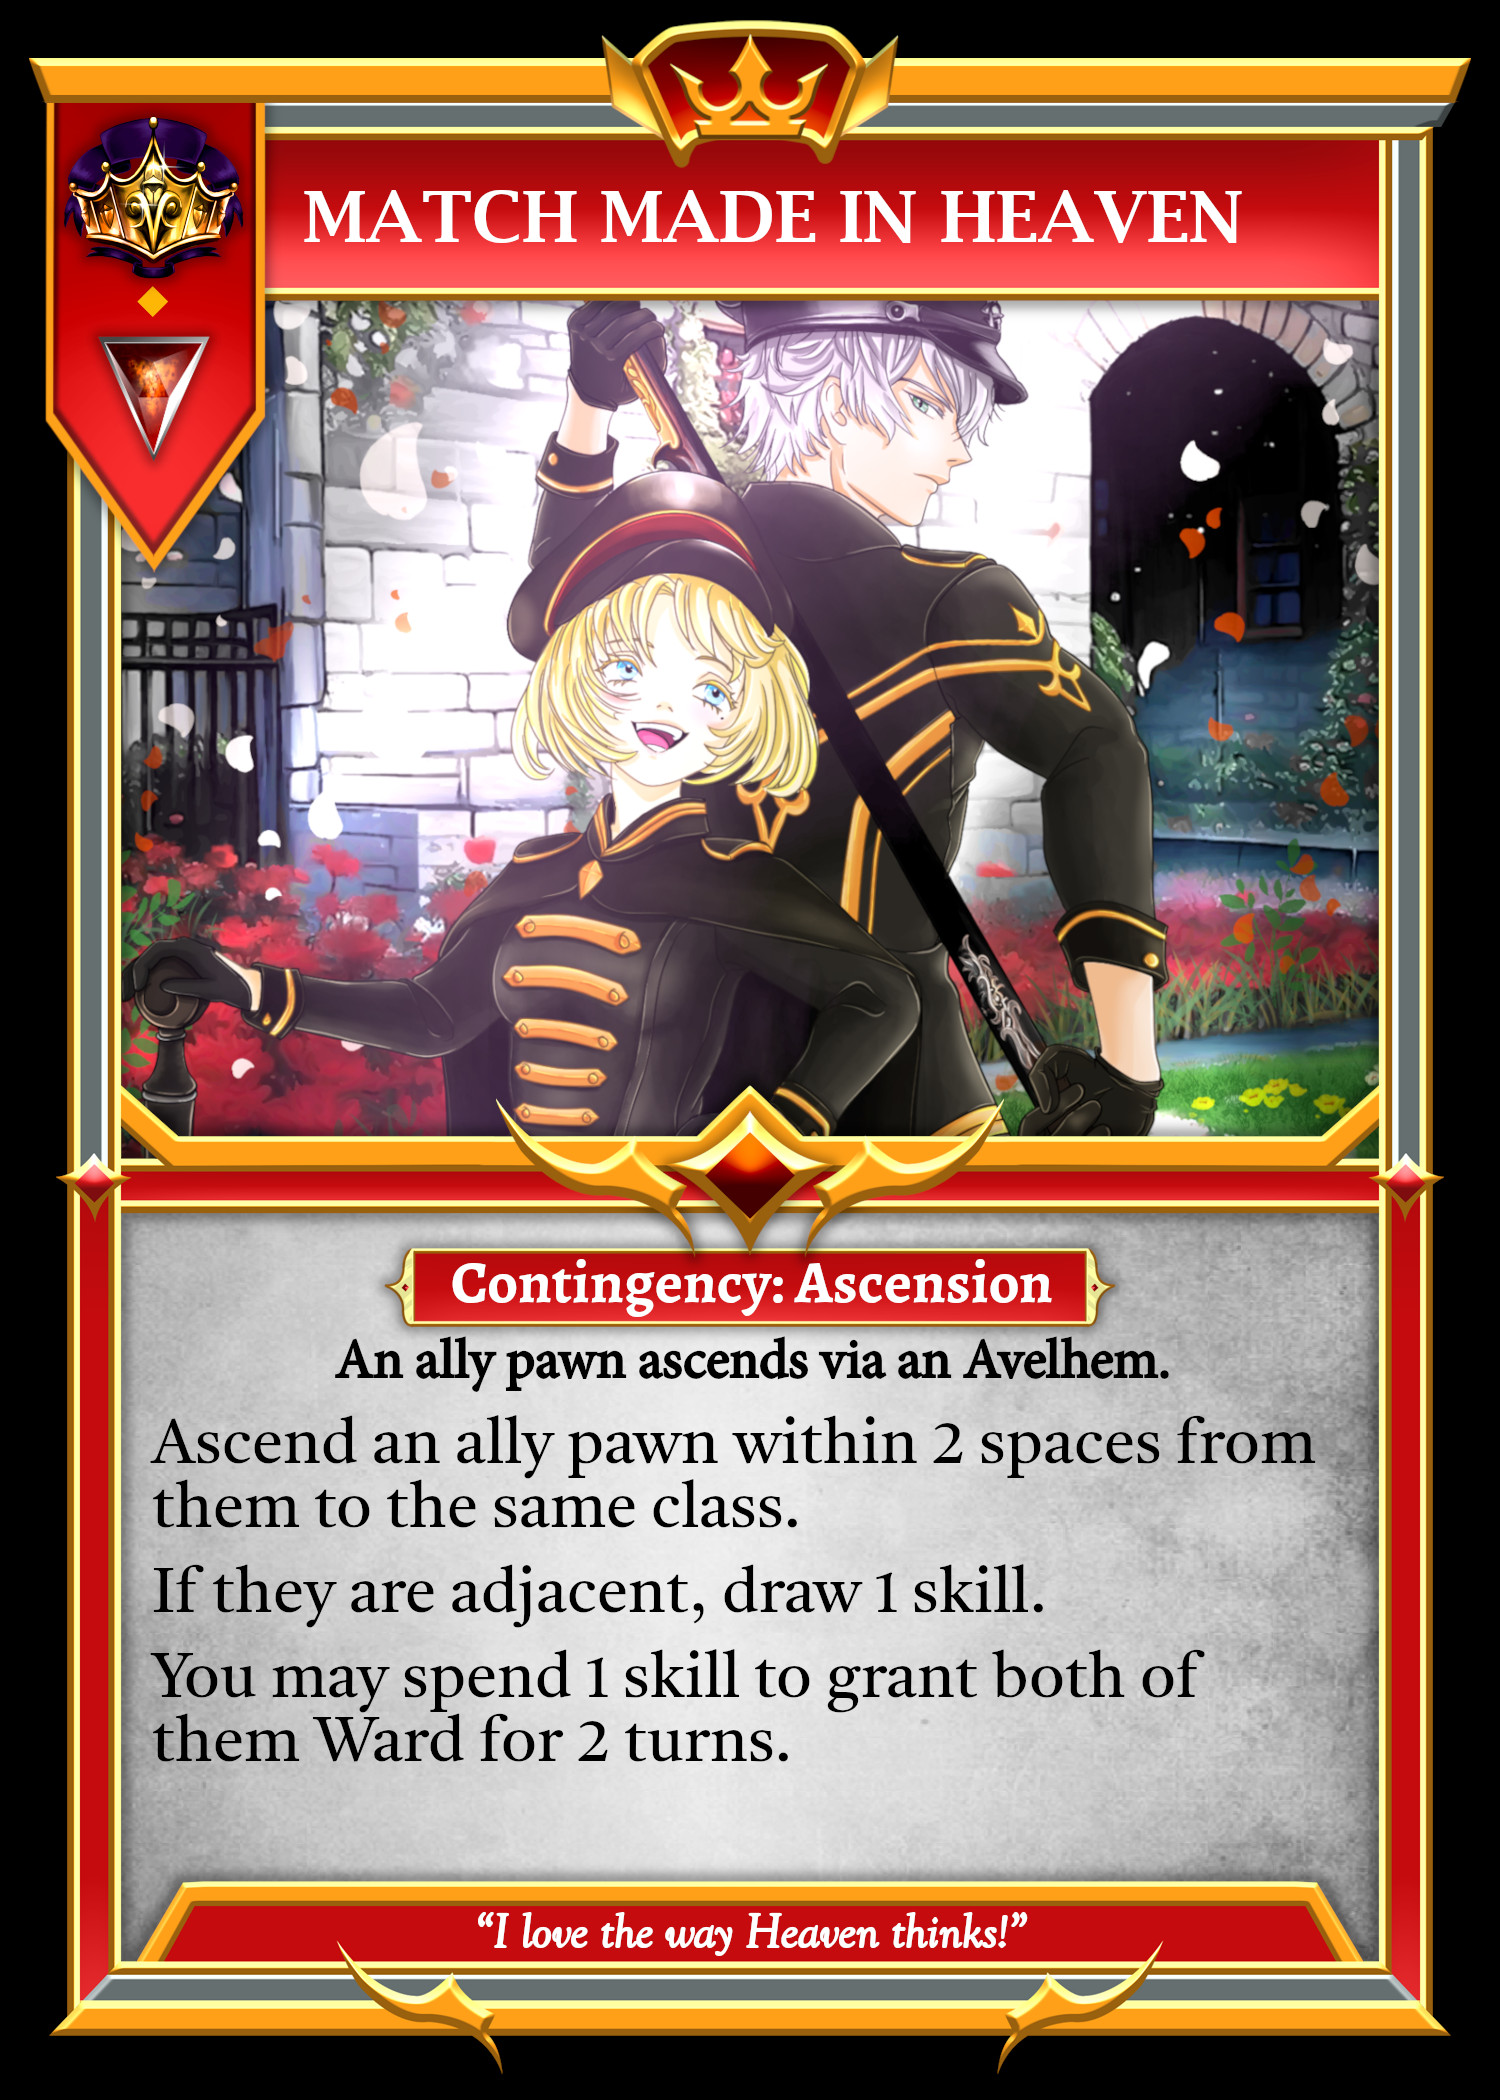
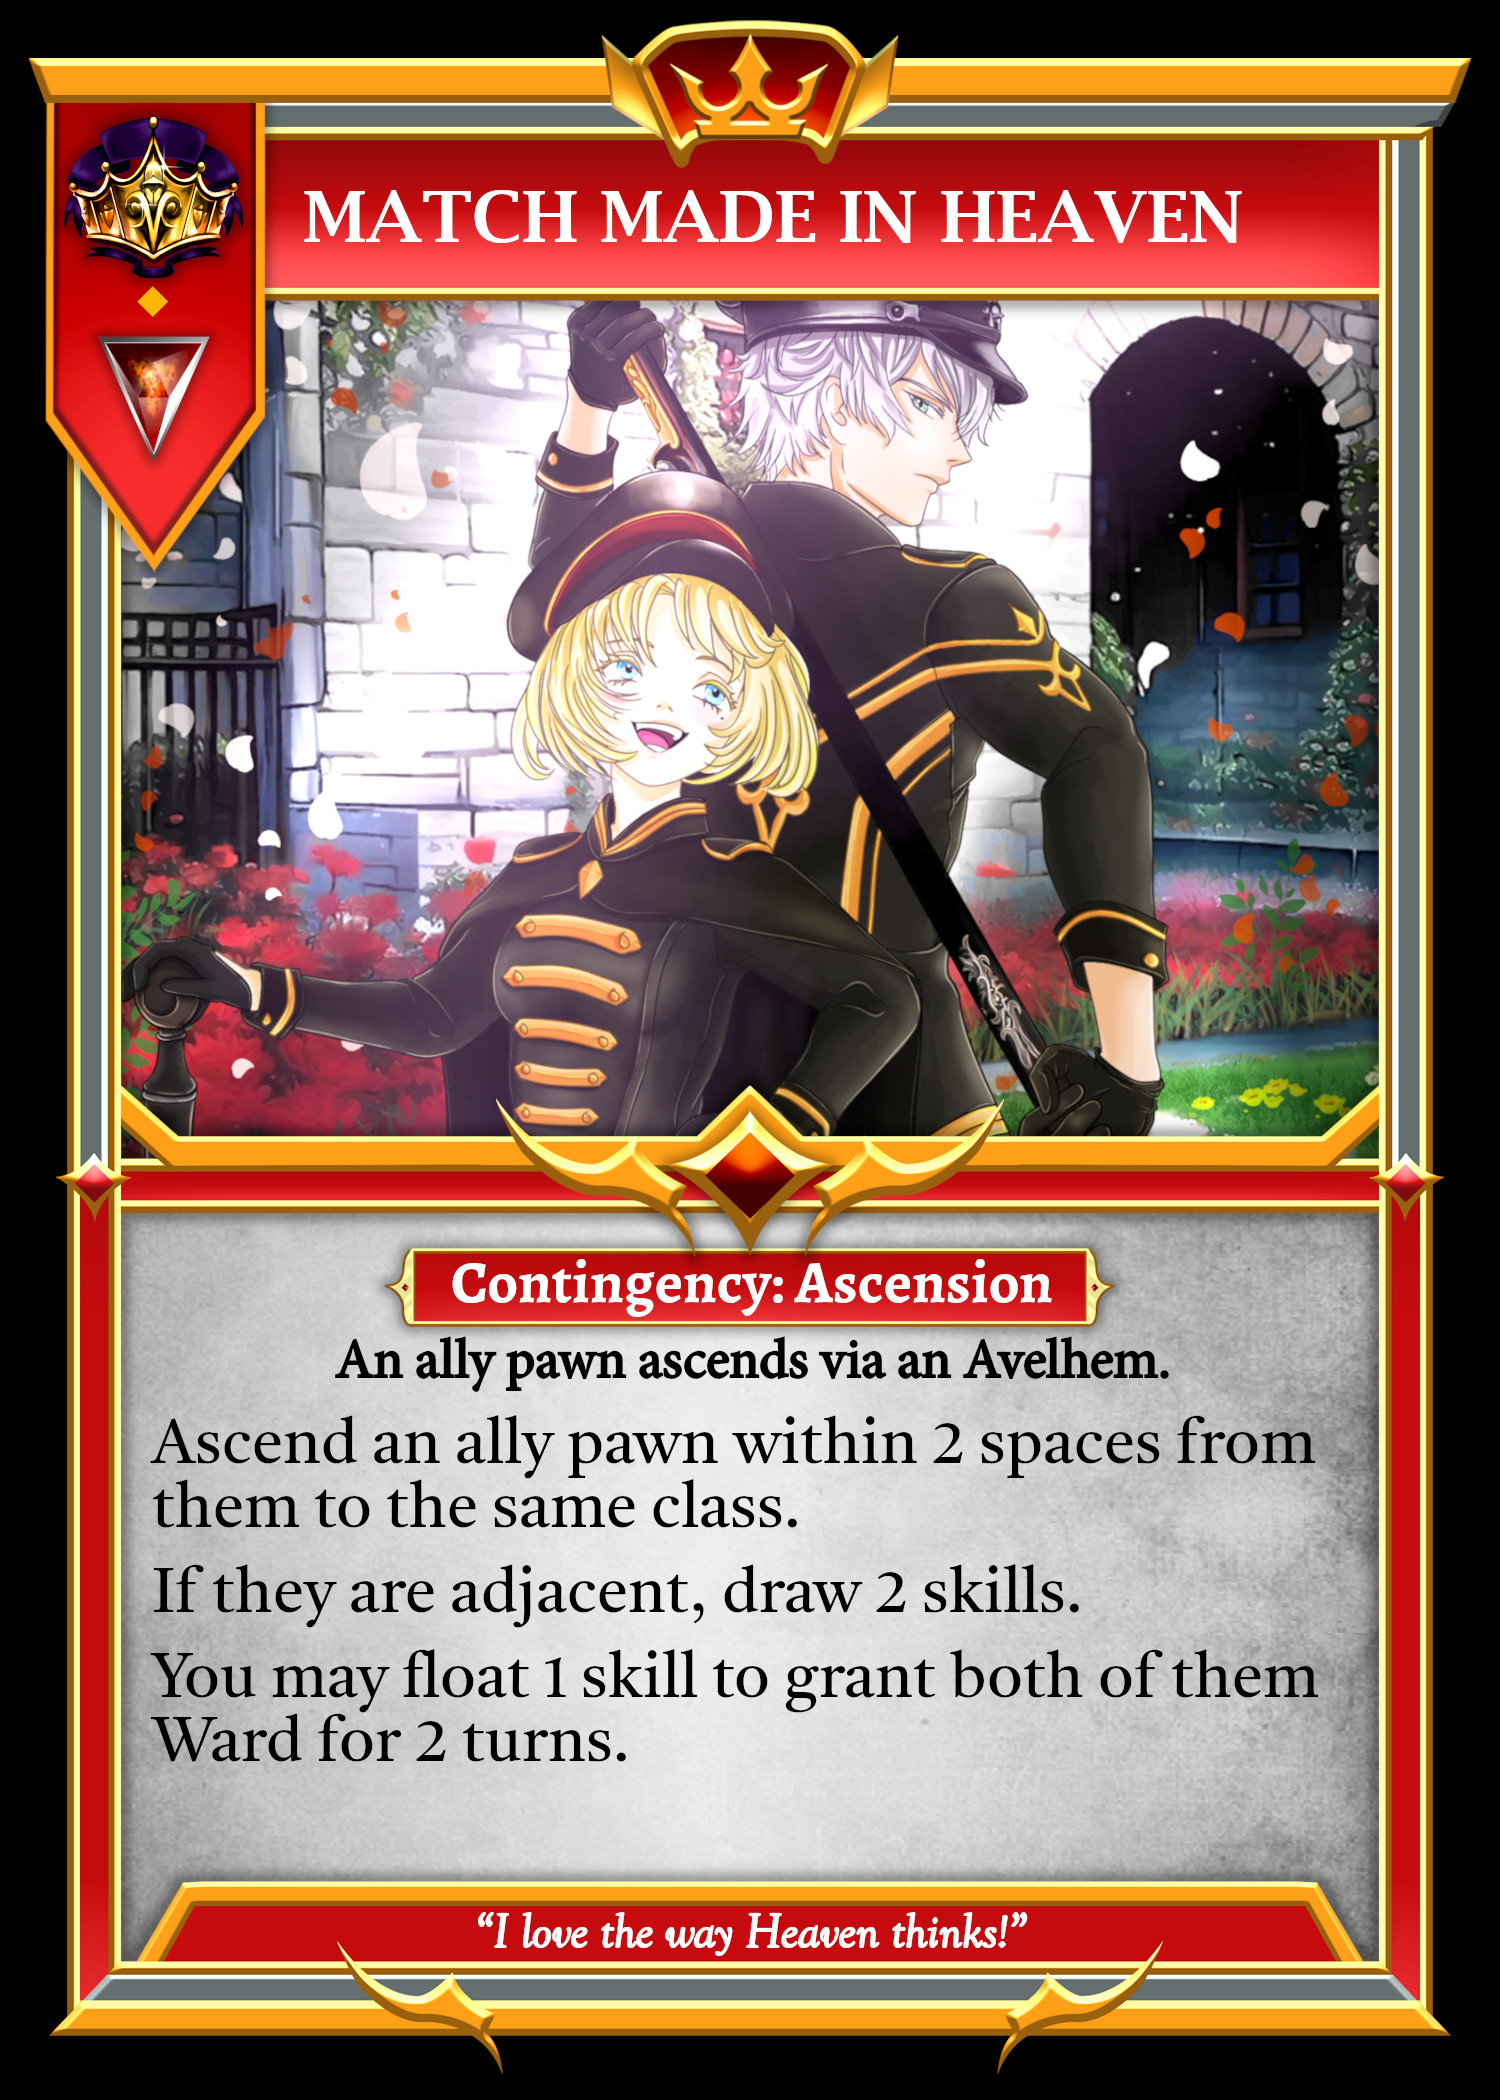
buffed Match Made in Heaven and Providence. Reduced BP upgrade costs.

Changed region(s): [[0.092, 0.7429, 0.8893, 0.8357]]

diff --git a/src/components/Board.jsx b/src/components/Board.jsx
@@ -1126,12 +1126,8 @@ const Board = (props) => {
               <>
                 {self === lastRes.player && !hideModal && (
                   <YouMayFloat1Skill
-                    restriction={lastRes.restriction}
-                    title={lastRes.title}
-                    message={lastRes.message}
-                    reason={lastRes.reason}
-                    tactic={lastRes.tactic}
-                    scionClass={lastRes.scionClass}
+                    unit={lastRes.unit}
+                    details={lastRes.details}
                     updateFirebase={updateFirebase}
                     hideOrRevealModale={hideOrRevealModale}
                   />
@@ -1449,10 +1445,7 @@ const Board = (props) => {
                 {self === lastRes.unit.player && !hideModal && (
                   <YouMayFloat1Skill
                     unit={lastRes.unit}
-                    restriction={lastRes.restriction}
-                    title={lastRes.title}
-                    message={lastRes.message}
-                    reason={lastRes.reason}
+                    details={lastRes.details}
                     updateFirebase={updateFirebase}
                     hideOrRevealModale={hideOrRevealModale}
                   />
@@ -1852,10 +1845,7 @@ const Board = (props) => {
                 {self === lastRes.unit.player && !hideModal && (
                   <YouMayFloat1Skill
                     unit={lastRes.unit}
-                    restriction={lastRes.restriction}
-                    title={lastRes.title}
-                    message={lastRes.message}
-                    reason={lastRes.reason}
+                    details={lastRes.details}
                     updateFirebase={updateFirebase}
                     hideOrRevealModale={hideOrRevealModale}
                   />
@@ -2060,10 +2050,7 @@ const Board = (props) => {
                 {self === lastRes.unit.player && !hideModal && (
                   <YouMayFloat1Skill
                     unit={lastRes.unit}
-                    restriction={lastRes.restriction}
-                    title={lastRes.title}
-                    message={lastRes.message}
-                    reason={lastRes.reason}
+                    details={lastRes.details}
                     updateFirebase={updateFirebase}
                     hideOrRevealModale={hideOrRevealModale}
                   />
@@ -3652,7 +3639,7 @@ const Board = (props) => {
             return (
               <>
                 {self === lastRes.player && !hideModal && (
-                  <YouMaySpend1Skill
+                  <YouMayFloat1Skill
                     unit={lastRes.unit}
                     details={lastRes.details}
                     updateFirebase={updateFirebase}
@@ -3686,10 +3673,7 @@ const Board = (props) => {
                 {self === lastRes.unit.player && !hideModal && (
                   <YouMayFloat1Skill
                     unit={lastRes.unit}
-                    restriction={lastRes.restriction}
-                    title={lastRes.title}
-                    message={lastRes.message}
-                    reason={lastRes.reason}
+                    details={lastRes.details}
                     updateFirebase={updateFirebase}
                     hideOrRevealModale={hideOrRevealModale}
                   />

diff --git a/src/components/modals/YouMayFloat1Skill.jsx b/src/components/modals/YouMayFloat1Skill.jsx
@@ -30,10 +30,10 @@ const YouMayFloat1Skill = (props) => {
   }
 
   const canBeFloated = (skill) => {
-    if (props.restriction === null) {
+    if (props.details.restriction === null) {
       return true;
     }
-    if (props.restriction.includes(skill)) {
+    if (props.details.restriction.includes(skill)) {
       return true;
     }
     return false;
@@ -49,7 +49,7 @@ const YouMayFloat1Skill = (props) => {
     //end Floating Skill resolution
     newGameState.currentResolution.pop();
 
-    switch (props.reason) {
+    switch (props.details.reason) {
       case "Frigid Breath3":
         newGameState.currentResolution.push({
           resolution: "Water Skill",
@@ -74,6 +74,33 @@ const YouMayFloat1Skill = (props) => {
           },
         });
         break;
+
+      case "Match Made in Heaven":
+        let unit1 =
+          newGameState[props.details.unit1.player].units[
+            props.details.unit1.unitIndex
+          ];
+
+        let unit2 =
+          newGameState[props.details.unit2.player].units[
+            props.details.unit2.unitIndex
+          ];
+
+        unit1.enhancements.ward
+          ? (unit1.enhancements.ward = Math.max(2, unit1.enhancements.ward))
+          : (unit1.enhancements.ward = 2);
+
+        newGameState[props.details.unit1.player].units[
+          props.details.unit1.unitIndex
+        ] = unit1;
+
+        unit2.enhancements.ward
+          ? (unit2.enhancements.ward = Math.max(2, unit2.enhancements.ward))
+          : (unit2.enhancements.ward = 2);
+
+        newGameState[props.details.unit2.player].units[
+          props.details.unit2.unitIndex
+        ] = unit2;
         break;
 
       case "Vengeful Legacy Ravager":
@@ -83,15 +110,13 @@ const YouMayFloat1Skill = (props) => {
 
       case "Advance Deploy Scion":
         //consume tactic
-        newGameState.tactics[props.tactic].stock -= 1;
+        newGameState.tactics[props.details.tactic].stock -= 1;
 
         newGameState.currentResolution.push({
           resolution: "Deploying Scion",
           zoneIds: getVacantFrontier(),
-          scionClass: props.scionClass,
+          scionClass: props.details.scionClass,
         });
-        break;
-
         break;
 
       default:
@@ -193,7 +218,7 @@ const YouMayFloat1Skill = (props) => {
     <div className="modal-backdrop">
       <div className="modal">
         <div className="modalHeader">
-          <div className="modalTitle">{props.title}</div>
+          <div className="modalTitle">{props.details.title}</div>
           <div className="modalButton">
             <button className="redButton" onClick={() => handleViewBoard()}>
               View
@@ -203,7 +228,7 @@ const YouMayFloat1Skill = (props) => {
 
         <br />
 
-        <h3>{props.message}</h3>
+        <h3>{props.details.message}</h3>
 
         <br />
 

diff --git a/src/components/modals/YouMaySpend1Skill.jsx b/src/components/modals/YouMaySpend1Skill.jsx
@@ -106,7 +106,6 @@ const YouMaySpend1Skill = (props) => {
             specMessage: null,
           },
         });
-
         break;
 
       case "Castle of Thorns2":
@@ -139,10 +138,6 @@ const YouMaySpend1Skill = (props) => {
     newGameState.currentResolution.pop();
 
     switch (props.details.reason) {
-      // case "Cultivate":
-      //   newGameState = drawSkill(newGameState);
-      //   break;
-
       case "Resplendence1":
         newGameState.currentResolution.push({
           resolution: "Fire Skill",
@@ -225,7 +220,6 @@ const YouMaySpend1Skill = (props) => {
           resolution: "Animation Delay",
           priority: unit.player,
         });
-
         break;
 
       case "Efflorescence1":
@@ -276,7 +270,6 @@ const YouMaySpend1Skill = (props) => {
             specMessage: null,
           },
         });
-
         break;
 
       case "Castle of Thorns2":
@@ -287,34 +280,6 @@ const YouMaySpend1Skill = (props) => {
           message: "Recover 1 Plant skill",
           outcome: "Add",
         });
-        break;
-
-      case "Match Made in Heaven":
-        let unit1 =
-          newGameState[props.details.unit1.player].units[
-            props.details.unit1.unitIndex
-          ];
-
-        let unit2 =
-          newGameState[props.details.unit2.player].units[
-            props.details.unit2.unitIndex
-          ];
-
-        unit1.enhancements.ward
-          ? (unit1.enhancements.ward = Math.max(2, unit1.enhancements.ward))
-          : (unit1.enhancements.ward = 2);
-
-        newGameState[props.details.unit1.player].units[
-          props.details.unit1.unitIndex
-        ] = unit1;
-
-        unit2.enhancements.ward
-          ? (unit2.enhancements.ward = Math.max(2, unit2.enhancements.ward))
-          : (unit2.enhancements.ward = 2);
-
-        newGameState[props.details.unit2.player].units[
-          props.details.unit2.unitIndex
-        ] = unit2;
         break;
 
       case "Rooted Traverse":

diff --git a/src/hooks/useSovereignSkillEffects.jsx b/src/hooks/useSovereignSkillEffects.jsx
@@ -705,7 +705,7 @@ export const useSovereignSkillEffects = () => {
         details: {
           title: "Match Made in Heaven",
           message:
-            "You may spend 1 skill to grant both of them Ward for 2 turns.",
+            "You may float 1 skill to grant both of them Ward for 2 turns.",
           restriction: null,
           reason: "Match Made in Heaven",
           unit1: unit1,
@@ -731,6 +731,7 @@ export const useSovereignSkillEffects = () => {
     // end "Match Made in Heaven3"
     newGameState.currentResolution.pop();
 
+    newGameState = drawSkill(newGameState);
     newGameState = drawSkill(newGameState);
 
     return newGameState;
@@ -764,9 +765,11 @@ export const useSovereignSkillEffects = () => {
         resolution2: "Vengeful Legacy Ravager",
         title: "Vengeful Legacy",
         unit: unit,
-        reason: "Vengeful Legacy Ravager",
-        restriction: null,
-        message: "You may float 1 skill to grant them Ravager.",
+        details: {
+          reason: "Vengeful Legacy Ravager",
+          restriction: null,
+          message: "You may float 1 skill to grant them Ravager.",
+        },
       });
     }
 

diff --git a/src/hooks/useSkillEffects.jsx b/src/hooks/useSkillEffects.jsx
@@ -396,11 +396,13 @@ export const useSkillEffects = () => {
         resolution: "Water Skill",
         resolution2: "Frigid Breath3",
         unit: unit,
-        reason: "Frigid Breath3",
-        restriction: null,
-        title: "Frigid Breath",
-        message:
-          "You may float 1 skill to freeze an adjacent enemy for 2 turns.",
+        details: {
+          reason: "Frigid Breath3",
+          restriction: null,
+          title: "Frigid Breath",
+          message:
+            "You may float 1 skill to freeze an adjacent enemy for 2 turns.",
+        },
       });
     }
 
@@ -644,10 +646,12 @@ export const useSkillEffects = () => {
         resolution: "Wind Skill",
         resolution2: "Gale Conjuration1",
         unit: unit,
-        title: "Gale Conjuration",
-        message: "You may float 1 skill to restore your Virtue.",
-        restriction: null,
-        reason: "Gale Conjuration1",
+        details: {
+          title: "Gale Conjuration",
+          message: "You may float 1 skill to restore your Virtue.",
+          restriction: null,
+          reason: "Gale Conjuration1",
+        },
       });
     }
 

diff --git a/src/components/modals/SelectElement.jsx b/src/components/modals/SelectElement.jsx
@@ -128,15 +128,17 @@ const SelectElement = (props) => {
         newGameState.currentResolution.push({
           resolution: "Misc.",
           resolution2: "Advance Deploy Scion: Float Skill",
-          reason: "Advance Deploy Scion",
           player: self,
-          restriction: null,
-          title: "Deploy Scion",
-          tactic: props.details.tactic,
-          scionClass: selectedChoice,
-          message: `Float 1 skill to deploy ${
-            ["A", "E", "I", "O", "U"].includes(selectedChoice[1]) ? "an" : "a"
-          } ${selectedChoice} in your frontier.`,
+          details: {
+            reason: "Advance Deploy Scion",
+            restriction: null,
+            title: "Deploy Scion",
+            tactic: props.details.tactic,
+            scionClass: selectedChoice,
+            message: `Float 1 skill to deploy ${
+              ["A", "E", "I", "O", "U"].includes(selectedChoice[1]) ? "an" : "a"
+            } ${selectedChoice} in your frontier.`,
+          },
         });
         break;
 

diff --git a/src/hooks/useDemoGameStates.jsx b/src/hooks/useDemoGameStates.jsx
@@ -2704,7 +2704,7 @@ export const useDemoGameStates = () => {
           case "Fire1.34":
           case "Fire1.35":
           case "Fire1.36":
-            return "15. Switch player, then prompt the Fire Scion to activate their contingent skill: Blaze of Glory, which is triggered when a Fire Scion is targeted by an attack. Ignite the Metal Scion, then draw 1 skill when given the option.";
+            return "15. Switch player, then prompt the Fire Scion to activate their contingent skill: Blaze of Glory, which is triggered when a Fire Scion is targeted by an attack. Ignite the Metal Scion, then draw 2 skills when given the option.";
 
           case "Fire1.36.1":
           case "Fire1.37":

diff --git a/src/components/modals/BountyPhase.jsx b/src/components/modals/BountyPhase.jsx
@@ -164,13 +164,11 @@ const BountyPhase = (props) => {
     props.hideOrRevealModale();
   };
 
-  // const frontierCosts = [2, 3, 5];
-  // frontier reworked
-  const frontierCosts = [4, 6, 10];
-  const acquisitionCosts = [2, 3, 3];
-  const coordinationCosts = [4, 4];
-  const tacticsCosts = [2, 3, 3];
-  const avelhemCosts = [2, 3, 3];
+  const frontierCosts = [4, 5, 10];
+  const acquisitionCosts = [2, 2, 3];
+  const coordinationCosts = [3, 4];
+  const tacticsCosts = [2, 2, 3];
+  const avelhemCosts = [2, 2, 3];
   const victoryCosts = [10, 5];
 
   const canFrontier = [

diff --git a/src/hooks/useUnitAbilityEffects.jsx b/src/hooks/useUnitAbilityEffects.jsx
@@ -318,10 +318,12 @@ export const useUnitAbilityEffects = () => {
         resolution: "Unit Ability",
         resolution2: "Fortify1",
         unit: unit,
-        reason: "Fortify",
-        restriction: null,
-        title: "Fortify",
-        message: "You may float 1 skill to traverse or strike.",
+        details: {
+          reason: "Fortify",
+          restriction: null,
+          title: "Fortify",
+          message: "You may float 1 skill to traverse or strike.",
+        },
       });
     }
 
